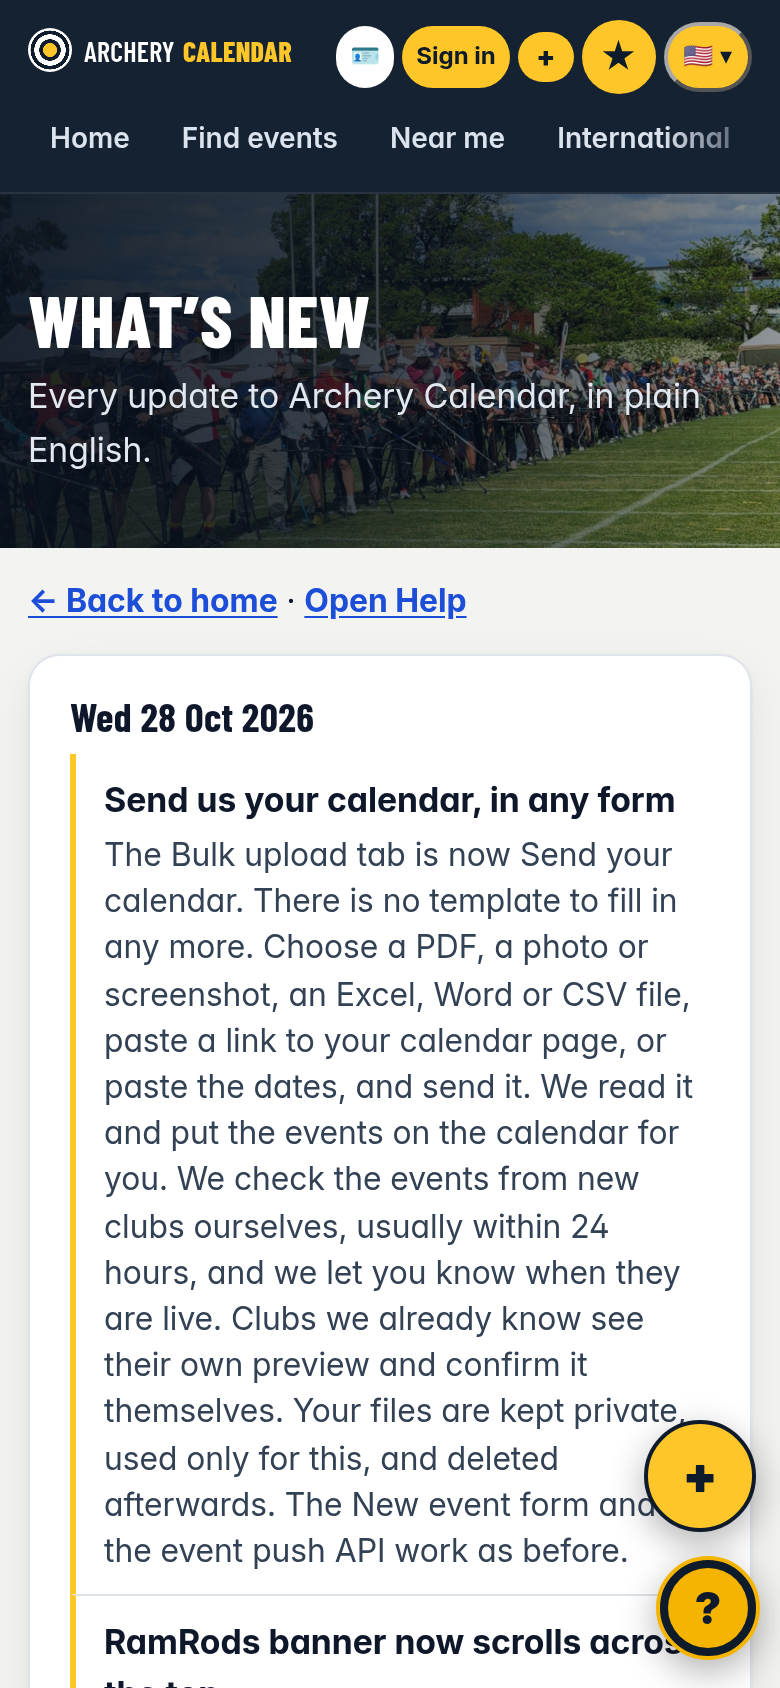
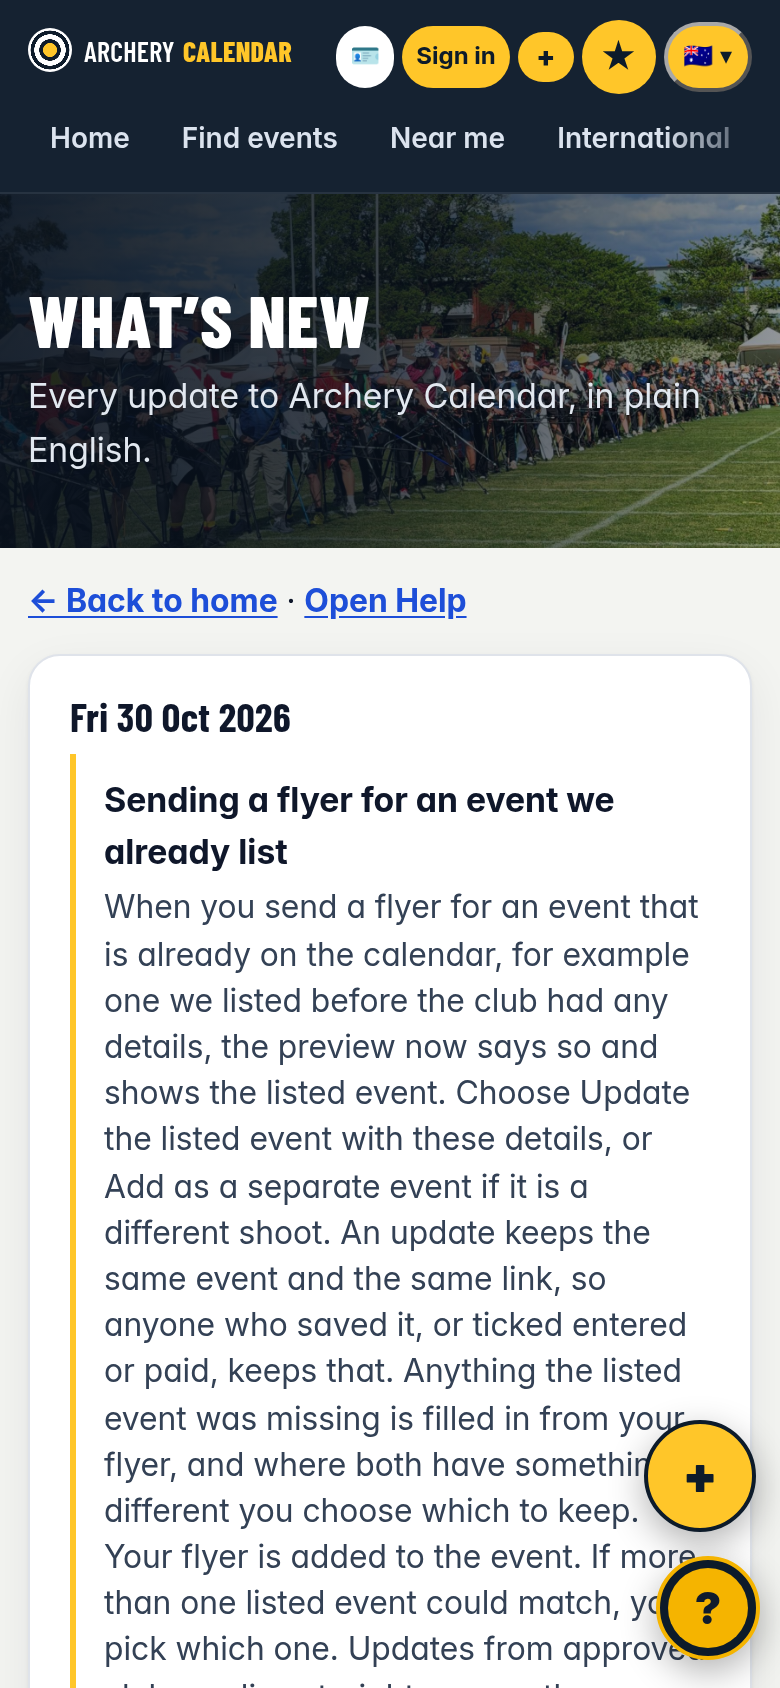
Map pins: club point only stands in when the event location names that club; verified venue points (WA Archery Centre Whiteman, Hobart Archers Lauderdale, Capital Sports Center McClellan, Chula Vista EATC, Easton Salt Lake, Lancaster Archery, Ben Avery, Armadale Bowling Club); 'shot at your own club

Changed region(s): [[0.1231, 0.4621, 0.8923, 1.0], [0.0923, 0.4005, 0.4, 0.4313], [0.8615, 0.0308, 0.9231, 0.0616]]

diff --git a/whatsnew.js b/whatsnew.js
@@ -3,6 +3,7 @@ window.CAL_WHATSNEW = [
   {d: '2026-10-30', label: 'Fri 30 Oct 2026', items: [
     ['Sending a flyer for an event we already list', 'When you send a flyer for an event that is already on the calendar, for example one we listed before the club had any details, the preview now says so and shows the listed event. Choose Update the listed event with these details, or Add as a separate event if it is a different shoot. An update keeps the same event and the same link, so anyone who saved it, or ticked entered or paid, keeps that. Anything the listed event was missing is filled in from your flyer, and where both have something different you choose which to keep. Your flyer is added to the event. If more than one listed event could match, you pick which one. Updates from approved clubs go live straight away; others are checked first, usually within 48 hours. Also fixed: a flyer from a club we know now takes that club\'s state, so a WA club no longer shows in another state\'s time zone, and a date that matches the listed event is no longer marked Check this.', ['this release']],
     ['Fly to any event on a 3D globe', 'Tap Map on any event to fly there on a 3D globe and see the venue from above. A small arrow flies from Perth to the venue, with the distance and a rough flight time, then the view zooms in to a sharp satellite picture of the venue. From there you can open Google Maps, get directions, or go back to the globe and tap a gold circle to fly to another event. Your phone’s back button or swipe closes the globe and leaves you on the event page. Events with no exact venue yet still show the normal map link, or none if the venue is not known.', ['this release']],
+    ['Map pins checked for every event', 'We checked the map point for every event against its venue. The globe, the satellite view, the venue shown on the event and the Directions link now always use the same place. An event held away from its club’s home ground no longer sends you to the club’s range, for example the Archery WA clout shoot at Whiteman Park. Some venues were also moved from the middle of town to the venue itself, including the Archery WA centre at Whiteman Park, Hobart Archers at Lauderdale, the Chula Vista training centre, Easton Salt Lake, Lancaster Archery and Ben Avery in Phoenix, and the Capital Sports Center in McClellan, California, which was pinned in the wrong part of the state.', ['this release']],
     ['Search results at the top', 'Search results now show at the top of the page.', ['c378f41']]]},
   {d: '2026-10-28', label: 'Wed 28 Oct 2026', items: [
     ['Send us your calendar, in any form', 'The Bulk upload tab is now Send your calendar. There is no template to fill in any more. Choose a PDF, a photo or screenshot, an Excel, Word or CSV file, paste a link to your calendar page, or paste the dates, and send it. We read it and put the events on the calendar for you. We check the events from new clubs ourselves, usually within 24 hours, and we let you know when they are live. Clubs we already know see their own preview and confirm it themselves. Your files are kept private, used only for this, and deleted afterwards. The New event form and the event push API work as before.', ['this release']],

diff --git a/app.js b/app.js
@@ -945,9 +945,13 @@ function clubShootsHtml(k){
    (globe/globe.js + globe.gl + textures + Leaflet load only on that tap; never precached). No point but a real address: the old
    Google Maps link. Placeholder or unreliable locations (TBA, online, "see listing", club names with no address in Australia): no link. */
 let GCO = null, GCOP = null, GLP = null;
-const MAP_PH = /^\s*(see |tba|tbc|venue not|venue to be confirmed|host city to be confirmed|various|online|postal)|listing/i;   // 884a155's check, plus locations that are only "to be confirmed"
+const MAP_PH = /^\s*(see |tba|tbc|venue not|venue to be confirmed|host city to be confirmed|various|online|postal|shot at your own|at your own club)|listing/i;   // 884a155's check, plus locations that are only "to be confirmed"
 const loadCoords = () => GCO ? Promise.resolve(GCO) : (GCOP = GCOP || fetch('data/club_coords.json').then(r => r.json()).then(j => (GCO = j)).catch(() => { GCOP = null; return null; }));
-const evPt = x => { if (!GCO || !x || !x.location || MAP_PH.test(x.location) || /to be confirmed/i.test(x.location)) return null; /* venue still to be confirmed: old Google Maps link, no pin */ const c = GCO.places[x.location] || (x.club_id && GCO.clubs[x.club_id]); return c && isFinite(c.lat) && isFinite(c.lng) ? c : null; };
+// The club's own ground stands in for an event only when the event's location names that club; otherwise the club point would send the globe
+// and Directions to the club's home range while the panel names another venue.
+const MAPCLUB_GENERIC = new Set('archers archery club bowmen bowman bowhunters field target association society inc incorporated the and of sports sporting club range park'.split(' '));
+const locNamesClub = x => { const cb = CLUB[x.club_id]; if (!cb) return false; const l = ' ' + snorm(x.location) + ' '; return [cb.name, ...(cb.aliases || [])].filter(Boolean).some(n => { const nn = snorm(n); if (nn && l.includes(' ' + nn + ' ')) return true; return nn.split(/\s+/).some(w => w.length >= 4 && !MAPCLUB_GENERIC.has(w) && l.includes(' ' + w + ' ')); }); };
+const evPt = x => { if (!GCO || !x || !x.location || MAP_PH.test(x.location) || /to be confirmed/i.test(x.location)) return null; /* venue still to be confirmed: old Google Maps link, no pin */ const c = GCO.places[x.location] || (x.club_id && locNamesClub(x) && GCO.clubs[x.club_id]); return c && isFinite(c.lat) && isFinite(c.lng) ? c : null; };
 const mapWhere = x => { const l = (x.location || '').replace(/[,\s]+$/, ''); return (x._intl ? [l, x.us_state && US_ST[x.us_state], x.country_name || x.country] : [l, x.state, 'Australia']).filter(Boolean).filter((v, i, a) => !(i && (a[0] || '').includes(v))).join(', '); };
 function mapLinkHtml(x){
   const l = x.location || ''; if (!l || MAP_PH.test(l)) return '';

diff --git a/sw.js b/sw.js
@@ -1,4 +1,4 @@
-const C='archcal-merge1030a';
+const C='archcal-pins1030a';
 const CORE=['./','./index.html','./styles.css','./config.js','./sync.js','./app.js','./scoretool.js','./nearme.js','./gsearch.js','./bulk.js','./help.js','./whatsnew.js','./manifest.webmanifest','./data/events.json','./data/submission_overrides.json','./data/organisations.json','./data/fans.json','./data/clubs.json','./data/club_logos.json','./data/club_coords.json','./data/intl_countries.json','./data/rounds.json','./img/logos/olympic-rings.svg','./img/logos/paralympic-agitos.svg','./data/results.json','./img/logos/aba-logo-32.png','./img/logos/aba-logo-64.png','./img/logos/aba-logo-32.webp','./img/logos/aba-logo-64.webp','./icons/icon-192.png','./icons/icon-512.png','./icons/icon-512-maskable.png','./icons/apple-touch-icon.png','./icons/icon.svg','./favicon-32.png','./favicon-16.png','./favicon.ico',
  './img/credits.json','./fonts/Inter-var.woff2','./fonts/BarlowCondensed-SemiBold.woff2','./fonts/BarlowCondensed-Bold.woff2','./fonts/BarlowCondensed-ExtraBold.woff2',
  './img/hero-aus-archery-australia.jpg','./img/hero-aus-archery-australia-sm.jpg','./img/field-aus-team-yankton-2026.jpg','./img/field-aus-team-yankton-2026-sm.jpg','./img/3d-longbow-2026.jpg','./img/3d-longbow-2026-sm.jpg','./img/aba-field-owl-2026.jpg','./img/aba-field-owl-2026-sm.jpg','./img/indoor-hall.jpg','./img/indoor-hall-sm.jpg','./img/target-face.jpg','./img/target-face-sm.jpg','./img/come-and-try-poster.jpg','./img/come-and-try-poster-sm.jpg'];

diff --git a/index.html b/index.html
@@ -27,7 +27,7 @@
 <link rel="preload" href="fonts/Inter-var.woff2" as="font" type="font/woff2" crossorigin>
 <link rel="preload" href="fonts/BarlowCondensed-ExtraBold.woff2" as="font" type="font/woff2" crossorigin>
 <meta name="apple-mobile-web-app-capable" content="yes">
-<link rel="stylesheet" href="styles.css?v=merge1030a">
+<link rel="stylesheet" href="styles.css?v=pins1030a">
 </head>
 <body>
 <a class="skip" href="#view">Skip to content</a>
@@ -85,13 +85,13 @@
 <script data-goatcounter="https://archerycalendars.goatcounter.com/count" async src="https://gc.zgo.at/count.js" onload="window.gcFlush && window.gcFlush()"></script>
 <script src="config.js?v=adm1016b"></script>
 <script src="sync.js?v=ctryhome1022"></script>
-<script src="app.js?v=merge1030a"></script>
+<script src="app.js?v=pins1030a"></script>
 <script src="selfscore.js?v=ss1016"></script>
 <script src="scoretool.js?v=stl1025"></script>
 <script src="nearme.js?v=near1025"></script>
-<script src="gsearch.js?v=merge1030a"></script>
-<script src="bulk.js?v=merge1030a"></script>
-<script src="whatsnew.js?v=merge1030a"></script>
-<script src="help.js?v=merge1030a" defer></script>
+<script src="gsearch.js?v=pins1030a"></script>
+<script src="bulk.js?v=pins1030a"></script>
+<script src="whatsnew.js?v=pins1030a"></script>
+<script src="help.js?v=pins1030a" defer></script>
 </body>
 </html>

diff --git a/scripts/build_club_coords.py b/scripts/build_club_coords.py
@@ -46,6 +46,32 @@ MANUAL = {'Circle E Guest Ranch, 1 Circle E Lane, Belvidere TN 37306': {'lat': 3
           'Sporting Club at the Farm, 4939 River Rd, New Albany IN': {'lat': 38.21642, 'lng': -85.86791, 'p': 'v', 'q': 'Sporting Club at the Farm, River Rd, New Albany IN'},
           'Crystal Mountain Resort, 12500 Crystal Mountain Dr, Thompsonville MI': {'lat': 44.51903, 'lng': -85.99044, 'p': 'v', 'q': '12500 Crystal Mountain Dr, Thompsonville MI'}}
 
+# Venues checked by hand against the venue's own page or the event's official listing, applied to every place string that names them
+# (the geocoder put these at a suburb or town centre, or at the wrong town). None = no pin at all.
+MANUAL_MATCH = [
+    (r'Jules Steiner|International Shooting Complex|Archery Park,? ?WA|Archery Park Whiteman|WA Archery Centre',
+     {'lat': -31.80537, 'lng': 115.92349, 'p': 'v', 'q': 'WA Archery Centre, Jules Steiner Memorial Dr, Whiteman WA'}),   # OSM sports_centre, Archery WA address
+    (r'Hobart Archers', {'lat': -42.89419, 'lng': 147.49488, 'p': 'v', 'q': '195 Roches Beach Rd, Lauderdale TAS'}),          # hobartarchers.org/location
+    (r'Capital Sports (Center|Complex)', {'lat': 38.66153, 'lng': -121.39171, 'p': 'v', 'q': '5209 Luce Ave, McClellan CA'}),  # usarchery.org event 51091
+    (r'^Armadale Bowls Club', {'lat': -32.15783, 'lng': 116.00427, 'p': 'v', 'q': 'Armadale Bowling Club, Millman Way, Armadale WA'}),
+    (r'^\s*Shot at your own club', None),
+    (r'Easton Archery Center of Excellence|Chula Vista (Olympic|Elite Athlete) Training Center',
+     {'lat': 32.63035, 'lng': -116.93723, 'p': 'v', 'q': 'Chula Vista Elite Athlete Training Center, 2800 Olympic Pkwy'}),   # OSM, 2800 Olympic Parkway
+    (r'Easton Salt Lake Archery Center|Salt Lake Easton Archery Center',
+     {'lat': 40.78071, 'lng': -112.03723, 'p': 'v', 'q': 'Easton Salt Lake Archery Center, 575 John Glenn Rd'}),
+    (r'Lancaster Archery (Academy|Supply)', {'lat': 40.04121, 'lng': -76.22694, 'p': 'v', 'q': 'Lancaster Archery Supply, 2195 Old Philadelphia Pike'}),
+    (r'Ben Avery Shooting Facility', {'lat': 33.81459, 'lng': -112.16097, 'p': 'v', 'q': 'Ben Avery Shooting Facility, Phoenix AZ'}),
+    (r'Easton Newberry Archery Center', {'lat': 29.64635, 'lng': -82.6065, 'p': 't', 'q': 'Newberry, Florida'}),   # street address not in OSM; town only, never Gainesville
+]
+MANUAL_CLUBS = {'hobart-archers': {'lat': -42.89419, 'lng': 147.49488, 'p': 'v', 'q': '195 Roches Beach Rd, Lauderdale TAS'},
+                'whiteman-park-archers': {'lat': -31.80537, 'lng': 115.92349, 'p': 'v', 'q': 'WA Archery Centre, Jules Steiner Memorial Dr, Whiteman WA'}}
+def apply_manual(places, clubs):
+    for loc in list(places):
+        for rx, v in MANUAL_MATCH:
+            if re.search(rx, loc, re.I): places[loc] = dict(v) if v else None; break
+    for k, v in MANUAL_CLUBS.items():
+        if k in clubs: clubs[k] = dict(v)
+
 VENUE_TYPES = {'amenity', 'leisure', 'building', 'highway', 'shop', 'tourism', 'office', 'sport', 'club', 'man_made', 'landuse', 'railway'}
 def precision(r, lvl=0):
     """'v' = a specific venue / street, 't' = only a suburb, town or city."""
@@ -163,6 +189,7 @@ def main():
         print('intl', loc[:60], '->', r and (r['p'], r['q'][:60])); sys.stdout.flush()
     for loc, v in MANUAL.items():   # venues Nominatim misses from the full address, checked by hand against OpenStreetMap
         if loc in out['places']: out['places'][loc] = v
+    apply_manual(out['places'], out['clubs'])
     n_c = sum(1 for v in out['clubs'].values() if v)
     res = {'generated': datetime.date.today().isoformat(),
            'note': 'Coordinates for clubs and event venues, geocoded only from addresses and place names already in the calendar data (OpenStreetMap Nominatim, (c) OpenStreetMap contributors, ODbL). p: v = a venue or street, t = only a suburb, town or city. null = no reliable location, never guessed.',
